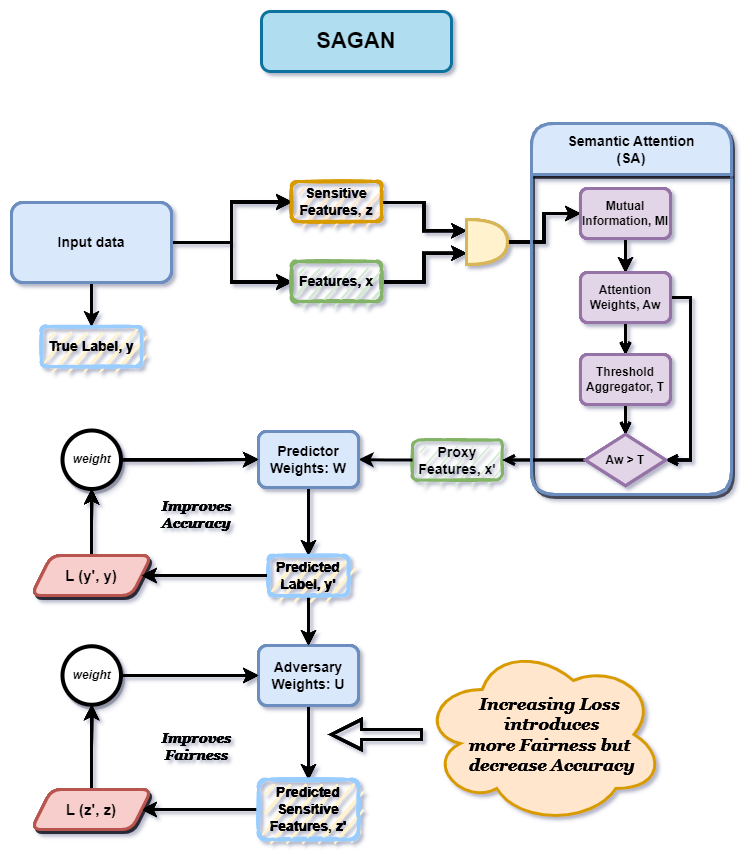
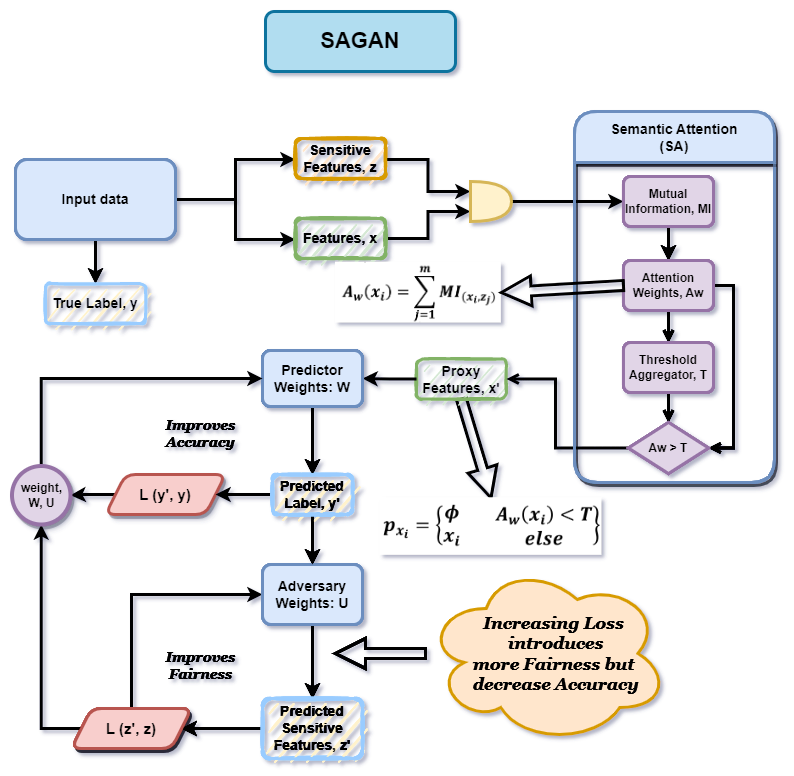
init

Changed region(s): [[0.0, 0.1237, 1.0, 0.9897], [0.3063, 0.0, 0.6125, 0.1237]]

diff --git a/project/train.py b/project/train.py
@@ -12,7 +12,7 @@ from sklearn.preprocessing import StandardScaler
 
 from dataset import load_ICU_data
 from model import FairClassifier
-from utils import create_paths
+from utils import create_paths, plot_smooth_curve
 from config import config, initializing
 initializing()
 
@@ -63,43 +63,27 @@ for i in threshold:
         print("---------------------------")
         print("For Attention Module:", i)
         
-        X_proxy, X_real,  y, Z = load_ICU_data(config['dataset_dir'], i)
+        X, y, Z = load_ICU_data(config['dataset_dir'], i)
 
         # split into train/test set for proxy features
-        X_train_proxy, X_test_proxy, y_train_proxy, y_test_proxy, Z_train_proxy, Z_test_proxy = train_test_split(X_proxy, y, Z, 
+        X_train, X_test, y_train, y_test, Z_train, Z_test = train_test_split(X, y, Z, 
                                                                              test_size=config['test_size'],
                                                                              stratify=y, random_state=7)
-        
-        
-        # split into train/test set for real features
-        X_train, X_test, y_train, y_test, Z_train, Z_test = train_test_split(X_real, y, Z,
-                                                                             test_size=config['test_size'],
-                                                                             stratify=y, random_state=7)
-        
 
         # standardize the real data
         scaler = StandardScaler().fit(X_train)
         scale_df = lambda df, scaler: pd.DataFrame(scaler.transform(df), columns=df.columns, index=df.index)
         X_train = X_train.pipe(scale_df, scaler) 
         X_test = X_test.pipe(scale_df, scaler) 
-        
-        # standardize the proxy data
-        scaler = StandardScaler().fit(X_train_proxy)
-        scale_df = lambda df, scaler: pd.DataFrame(scaler.transform(df), columns=df.columns, index=df.index)
-        X_train_proxy = X_train_proxy.pipe(scale_df, scaler) 
-        X_test_proxy = X_test_proxy.pipe(scale_df, scaler)
-        
-
 
         # initialise FairClassifier
-        clf = FairClassifier(n_features=X_train.shape[1], n_features_proxy=X_train_proxy.shape[1], n_sensitive=Z_train.shape[1],
-                                lambdas=[5., 5.])
+        clf = FairClassifier(n_features=X_train.shape[1], n_sensitive=Z_train.shape[1], lambdas=[5., 5.])
         
 
         # pre-train both adverserial and classifier networks    X_train_proxy, y_train_proxy, Z_train_proxy,
-        clf.pretrain(X_train, y_train, Z_train, X_train_proxy, y_train_proxy, Z_train_proxy, verbose=0, epochs=5)
+        clf.pretrain(X_train, y_train, Z_train, verbose=0, epochs=5)
         
-        clf.fit(X_train_proxy, y_train_proxy, Z_train_proxy, i,
+        clf.fit(X_train, y_train, Z_train, i,
                 validation_data=(X_test, y_test, Z_test),
                 T_iter=config["iteration"], batch_size=config["batch_size"],
                 save_figs=True, verbose=1)
@@ -121,14 +105,15 @@ for i in threshold:
         # prev_mem = mem
 
 
-# Attention Module vs P% rule curve plot
+# Attention Module vs DI % curve plot
 # ----------------------------------------------------------------------------------------------
-# p_race = []
-# p_sex = []
-# for i, j in zip(models, threshold):
-#     p_race.append(i._fairness_metrics.loc[40, 'race'])
-#     p_sex.append(i._fairness_metrics.loc[40, 'sex'])
-    
-# fname = config['visualization_dir'] + 'P_ruleVsAttention.jpg'
-# ylabel = "P%-rule"
-# plot_curve(threshold, p_race, p_sex, fname, ylabel)
+if len(models)>1:
+        p_race = []
+        p_sex = []
+        for i, j in zip(models, threshold):
+                p_race.append(i._fairness_metrics.loc[1, 'race'])
+                p_sex.append(i._fairness_metrics.loc[1, 'sex'])
+        
+        fname = config['visualization_dir'] + 'P_ruleVsAttention.jpg'
+        ylabel = "P%-rule"
+        plot_smooth_curve(threshold, p_race, p_sex, fname, ylabel)

diff --git a/project/model.py b/project/model.py
@@ -40,12 +40,11 @@ class FairClassifier(object):
         prediction
     """
     
-    def __init__(self, n_features, n_features_proxy, n_sensitive, lambdas):
+    def __init__(self, n_features, n_sensitive, lambdas):
         self.lambdas = lambdas
         self.n_features = n_features
 
         clf_inputs = Input(shape=(n_features,))
-        adv_proxy_inputs = Input(shape=(n_features_proxy,))
         adv_inputs = Input(shape=(1,))
         
         clf_net = self._create_clf_net(clf_inputs)
@@ -56,8 +55,8 @@ class FairClassifier(object):
 
         # compile model. Three model compiletion: clf, clf_w_adv and adv
         self._clf = self._compile_clf(clf_net)
-        self._clf_w_adv = self._compile_clf_w_adv(adv_proxy_inputs, clf_net, adv_net)
-        self._adv = self._compile_adv(adv_proxy_inputs, clf_net, adv_net, n_sensitive)
+        self._clf_w_adv = self._compile_clf_w_adv(clf_inputs, clf_net, adv_net)
+        self._adv = self._compile_adv(clf_inputs, clf_net, adv_net, n_sensitive)
         # print(self._adv.summary())
 
         self._val_metrics = None
@@ -153,7 +152,7 @@ class FairClassifier(object):
         return class_weights
         
     
-    def pretrain(self, x, y, z, x_proxy, y_proxy, z_proxy, epochs=10, verbose=0):
+    def pretrain(self, x, y, z, epochs=10, verbose=0):
         self._trainable_clf_net(True)
         self._clf.fit(x.values, y.values, epochs=epochs, verbose=verbose) # training clf
         self._trainable_clf_net(False)
@@ -161,7 +160,7 @@ class FairClassifier(object):
         self._trainable_adv_net(True)
         class_weight_adv = self._compute_class_weights(z)
         # passing z value instead of y and split the z into two
-        self._adv.fit(x_proxy.values, np.hsplit(z_proxy.values, z_proxy.shape[1]), class_weight=class_weight_adv, # Split an array into multiple sub-arrays horizontally (column-wise)
+        self._adv.fit(x.values, np.hsplit(z.values, z.shape[1]), class_weight=class_weight_adv, # Split an array into multiple sub-arrays horizontally (column-wise)
                       epochs=epochs, verbose=verbose) # training adv
         
     

diff --git a/project/utils.py b/project/utils.py
@@ -80,18 +80,26 @@ def plot_distributions(y, Z, atten_wei, iteration=None, val_metrics=None, p_rule
     #                                   for attr in fm.keys()]), 
     #              fontsize='16')
     
+    # fig.text(1.0, 0.4,
+    #          '\n'+ 'Race:  P%rule={:.0f}%'.format(p_rules['race']) + 
+    #         #  '\n' + '           EOp={:.1f}'.format(fm['race'][0]) +
+    #         #  '\n' + '           EO={:.1f}'.format(fm['race'][1]) +
+    #          '\n' + '           DI={:.1f}'.format(fm['race'][3]) ,
+    #          fontsize='14')
+    
+    # fig.text(1.0, 0.15,
+    #          '\n'+ 'Sex:  P%rule={:.0f}%'.format(p_rules['sex']) + 
+    #         #  '\n' + '         EOp={:.1f}'.format(fm['sex'][0]) +
+    #         #  '\n' + '         EO={:.1f}'.format(fm['sex'][1]) +
+    #          '\n' + '         DI={:.1f}'.format(fm['sex'][3]),
+    #          fontsize='14')
+    
     fig.text(1.0, 0.4,
-             '\n'+ 'Race:  P%rule={:.0f}%'.format(p_rules['race']) + 
-            #  '\n' + '           EOp={:.1f}'.format(fm['race'][0]) +
-            #  '\n' + '           EO={:.1f}'.format(fm['race'][1]) +
-             '\n' + '           DI={:.1f}'.format(fm['race'][3]) ,
+             '\n'+ 'Race:  DI% ={:.0f}%'.format(p_rules['race']),
              fontsize='14')
     
     fig.text(1.0, 0.15,
-             '\n'+ 'Sex:  P%rule={:.0f}%'.format(p_rules['sex']) + 
-            #  '\n' + '         EOp={:.1f}'.format(fm['sex'][0]) +
-            #  '\n' + '         EO={:.1f}'.format(fm['sex'][1]) +
-             '\n' + '         DI={:.1f}'.format(fm['sex'][3]),
+             '\n'+ 'Sex:  DI% ={:.0f}%'.format(p_rules['sex']),
              fontsize='14')
     
         

diff --git a/project/dataset.py b/project/dataset.py
@@ -113,19 +113,15 @@ def load_ICU_data(path, threshold=0):
 
     # features; note that the 'target' and sentive attribute columns are dropped
     remove_features.extend(['target', 'race', 'sex'])
-    X_proxy = (input_data
+    X = (input_data
          .drop(columns=remove_features)
          .fillna('Unknown')   # The fillna() function is used to fill NA/NaN values using the specified method
          .pipe(pd.get_dummies, drop_first=True)) # Use .pipe when chaining together functions that expect Series, DataFrames or GroupBy objects.
                                                  # pd.get_dummies=Convert categorical variable into dummy/indicator variables
                                                  # drop_first: bool function(default False) Whether to get k-1 dummies out of k categorical levels by removing the first level.
     
-    X_real = (input_data
-         .drop(columns=['target', 'race', 'sex'])
-         .fillna('Unknown')
-         .pipe(pd.get_dummies, drop_first=True))
     
-    print(f"features X: {X_proxy.shape[0]} samples, {X_proxy.shape[1]} attributes")
+    print(f"features X: {X.shape[0]} samples, {X.shape[1]} attributes")
     print(f"targets y: {y.shape[0]} samples")
     print(f"sensitives Z: {Z.shape[0]} samples, {Z.shape[1]} attributes")
-    return X_proxy, X_real,  y, Z
+    return X,  y, Z

diff --git a/README.md b/README.md
@@ -16,42 +16,35 @@ Here, we will train a model for making income level predictions, analyse the fai
 
 For our experiment we use [Ault UCI](https://archive.ics.uci.edu/ml/datasets/Adult) dataset which can be download from [here](https://archive.ics.uci.edu/ml/machine-learning-databases/adult/). It is also referred to as "Census Income" dataset. Here, we will predict whether or not a person's income is larger than 50K dollar a year. It is not hard to imagine that financial institutions train models on similar data sets and use them to decide whether or not someone is eligible for a loan, or to set the height of an insurance premium. The dataset contain the following features:
 
-- `age`: continuous.
-- `workclass`: Private, Self-emp-not-inc, Self-emp-inc, Federal-gov, Local-gov, State-gov, Without-pay, Never-worked.
-- `fnlwgt`: continuous.
- -education: Bachelors, Some-college, 11th, HS-grad, Prof-school, Assoc-acdm, Assoc-voc, 9th, 7th-8th, 12th, Masters, 1st-4th, 10th, Doctorate, 5th-6th, Preschool.
-- `education-num`: continuous.
-- marital-status: Married-civ-spouse, Divorced, Never-married, Separated, Widowed, Married-spouse-absent, Married-AF-spouse.
-- `occupation`: Tech-support, Craft-repair, Other-service, Sales, Exec-managerial, Prof-specialty, Handlers-cleaners, Machine-op-inspct, Adm-clerical, Farming-fishing, Transport-moving, Priv-house-serv, Protective-serv, Armed-Forces.
-- `relationship`: Wife, Own-child, Husband, Not-in-family, Other-relative, Unmarried.
-- `race`: White, Asian-Pac-Islander, Amer-Indian-Eskimo, Other, Black.
-- `sex`: Female, Male.
-- `capital-gain`: continuous.
-- `capital-loss`: continuous.
-- `hours-per-week`: continuous.
-- `native-country`: United-States, Cambodia, England, Puerto-Rico, Canada, Germany, Outlying-US(Guam-USVI-etc), India, Japan, Greece, South, China, Cuba, Iran, Honduras, Philippines, Italy, Poland, Jamaica, Vietnam, Mexico, Portugal, Ireland, France, Dominican-Republic, Laos, Ecuador, Taiwan, Haiti, Columbia, Hungary, Guatemala, Nicaragua, Scotland, Thailand, Yugoslavia, El-Salvador, Trinadad&Tobago, Peru, Hong, Holand-Netherlands.
+![Alternate text](/readme/datasetDes.jpeg)
 
 ### Sensitive Features
 
 In the Adult UCI dataset there are two sensitive featues.
 
-- race
+- ### race
 
 Distribution of race in the dataset.
 
 ![Alternate text](/readme/race%20distribution.png)
 
-- sex
+- ### sex
 
 Distribution of sex in the dataset.
 
 ![Alternate text](/readme/gender%20distribution.png)
 
+### Mutual Information
+
+Mutual information is a measure of non-linear association between two variables. It indicates how much the uncertainty around one variable is reduced by observing another. In the below, you can see the mutual information values between each of the 6 features and protected features. Notice the high value between marital-status and sex. This suggests a possible relationship between these variables. In other words, marital-status could be a proxy variable for sex. This is done using the `mutual_info_classif` function.
+
+![Alternate text](/readme/MI.png)
+
 ## Model
 
 Below figure describe our full model and the workflow.
 
-![Alternate text](/readme/SAGAN.png)
+![Alternate text](/readme/SA)
 
 ## Setup
 
